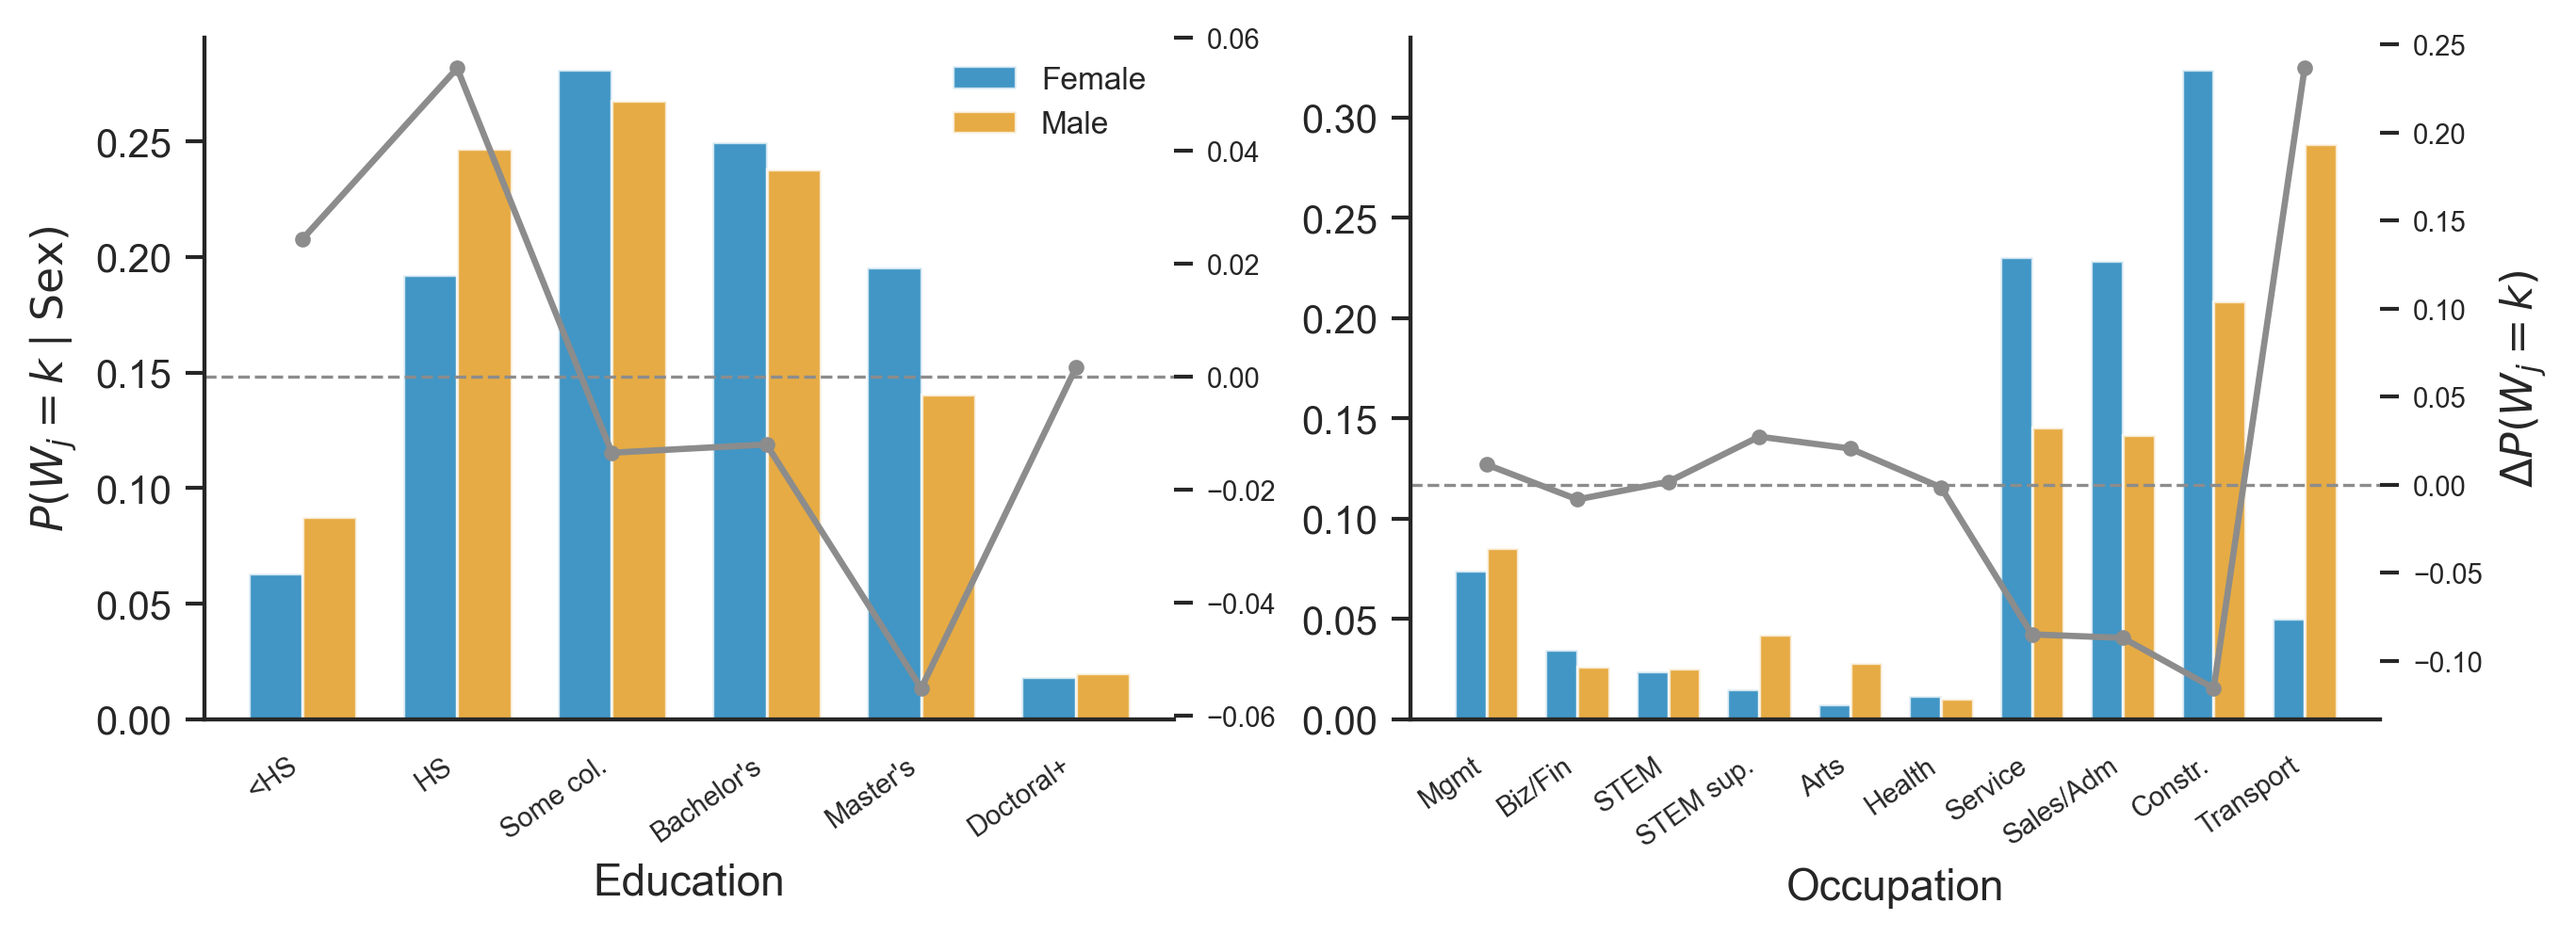
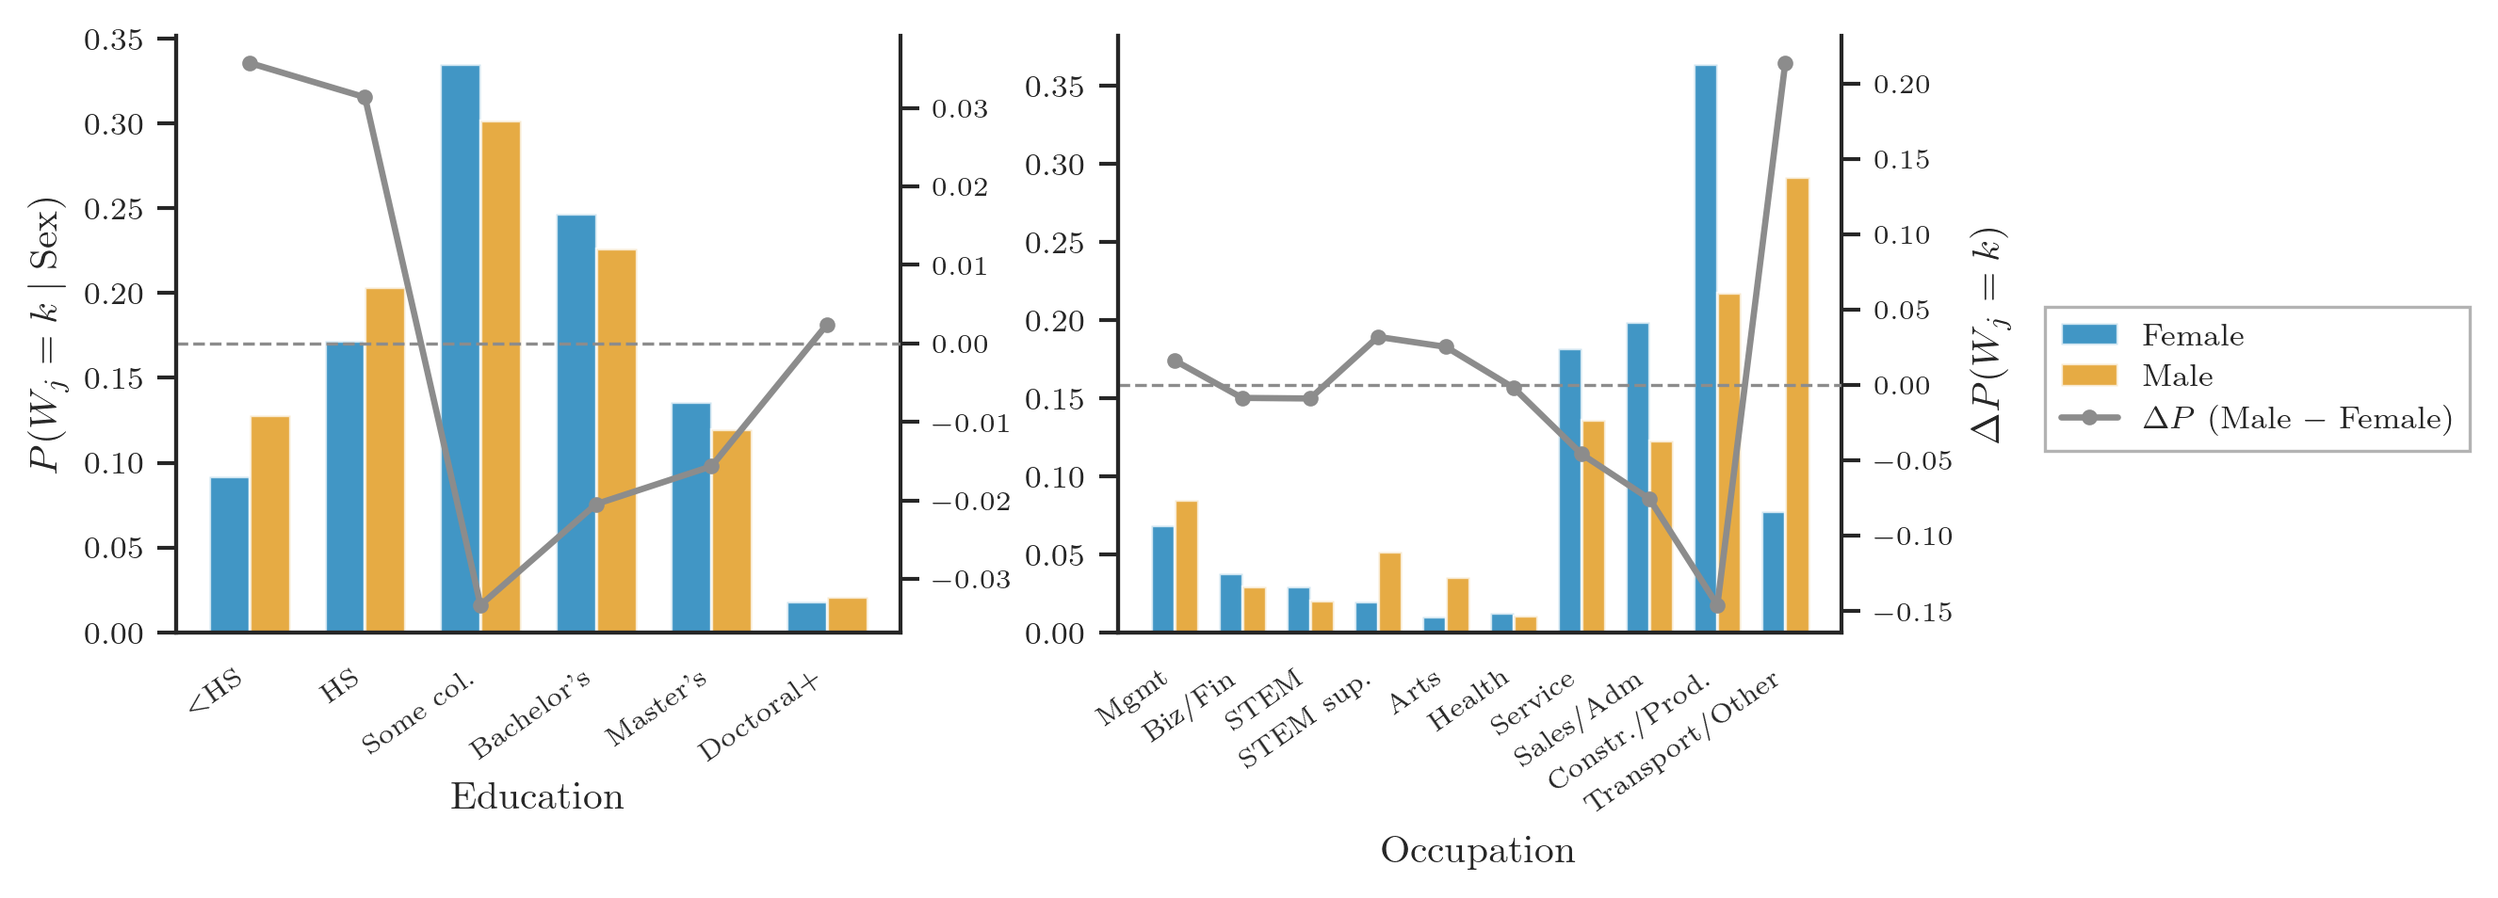
Render '<HS' tick label correctly and drop recourse-shift titles
LaTeX text mode renders bare '<' as an inverted exclamation in Computer
Modern, mangling the leftmost Education tick across every paper-styled
figure that uses the SCHL_GRP labels. Wrap the offending character in a
math-mode toggle ($<$HS) in both inspect_acs_model.SCHL_LABELS and
inspect_recourse_shift.CATEGORY_LABELS.

Drop the per-figure suptitle from inspect_recourse_shift._plot_model:
model identity is already carried by the filename slug and printed to
stdout, and removing it lets the panels use the full vertical extent.
Clean up the now-unused model_name / leb parameters on _plot_model.

Regenerate the paper-style ACS figures — completing the follow-up the
previous paper-style commit deferred until LaTeX was available locally:

  - acs_counterfactual_shift.png, acs_discrete_marginals.png,
    acs_training_curve.png, ess_by_group.png, conditional_marginals.png
  - recourse_shift_logistic_reg.png, recourse_shift_mlp_6432.png (new)

Stage-4b scored caches in outputs/recourse/ were reused; cohort and
λ_EB are unchanged.

diff --git a/diagnostics/inspect_recourse_shift.py b/diagnostics/inspect_recourse_shift.py
@@ -73,7 +73,7 @@ SEX_LABELS      = {0: "Female", 1: "Male"}
 # mediators fall back to integer codes / the raw column name, so the script
 # still runs on other datasets, just without pretty labels.
 CATEGORY_LABELS = {
-    "SCHL_GRP": ["<HS", "HS", "Some col.", "Bachelor's", "Master's", "Doctoral+"],
+    "SCHL_GRP": [r"$<$HS", "HS", "Some col.", "Bachelor's", "Master's", "Doctoral+"],
     "OCCP_GRP": ["Mgmt", "Biz/Fin", "STEM", "STEM sup.", "Arts", "Health",
                  "Service", "Sales/Adm", "Constr./Prod.", "Transport/Other"],
 }
@@ -151,7 +151,7 @@ def _reconstruct(data, scaler, eval_idx, all_candidates, sex_labels, leb,
 
 
 def _plot_model(series, disc_names, cont_names, vocab, mediator_specs,
-                model_name, leb, n_adv, n_dis, figures_dir, slug):
+                n_adv, n_dis, figures_dir, slug):
     """One figure for one model: a panel per mediator dimension."""
     adv_lbl  = SEX_LABELS[ADVANTAGED_X]
     dis_lbl  = SEX_LABELS[DISADVANTAGED_X]
@@ -200,11 +200,7 @@ def _plot_model(series, disc_names, cont_names, vocab, mediator_specs,
         sns.despine(ax=ax)
 
     handles = [plt.Rectangle((0, 0), 1, 1, color=c, alpha=0.85) for c in cols]
-    fig.suptitle(
-        rf"Recourse-induced shift -- {model_name}  "
-        rf"($\lambda_{{\mathrm{{EB}}}}={leb:.4f}$)",
-    )
-    fig.subplots_adjust(right=0.80, top=0.86, bottom=0.22, wspace=0.30)
+    fig.subplots_adjust(right=0.80, bottom=0.22, wspace=0.30)
     legend_outside(fig, handles=handles, labels=leg, pad=0.81)
 
     path = save_figure(fig, f"recourse_shift_{slug}", save=True,
@@ -289,7 +285,7 @@ def main(cfg):
               f"{n_dis} {SEX_LABELS[DISADVANTAGED_X]} (pre/post)")
 
         _plot_model(series, disc_names, cont_names, vocab, mediator_specs,
-                    name, leb, n_adv, n_dis, figures_dir, slug_file)
+                    n_adv, n_dis, figures_dir, slug_file)
 
     print(f"\nAll recourse-shift figures → {figures_dir}/")
 

diff --git a/diagnostics/inspect_acs_model.py b/diagnostics/inspect_acs_model.py
@@ -45,7 +45,7 @@ set_paper_style()
 
 GROUP_LABELS = {0: "Female", 1: "Male"}
 
-SCHL_LABELS  = ["<HS", "HS", "Some col.", "Bachelor's", "Master's", "Doctoral+"]
+SCHL_LABELS  = [r"$<$HS", "HS", "Some col.", "Bachelor's", "Master's", "Doctoral+"]
 OCCP_LABELS  = ["Mgmt", "Biz/Fin", "STEM", "STEM sup.", "Arts", "Health",
                 "Service", "Sales/Adm", "Constr./Prod.", "Transport/Other"]
 
